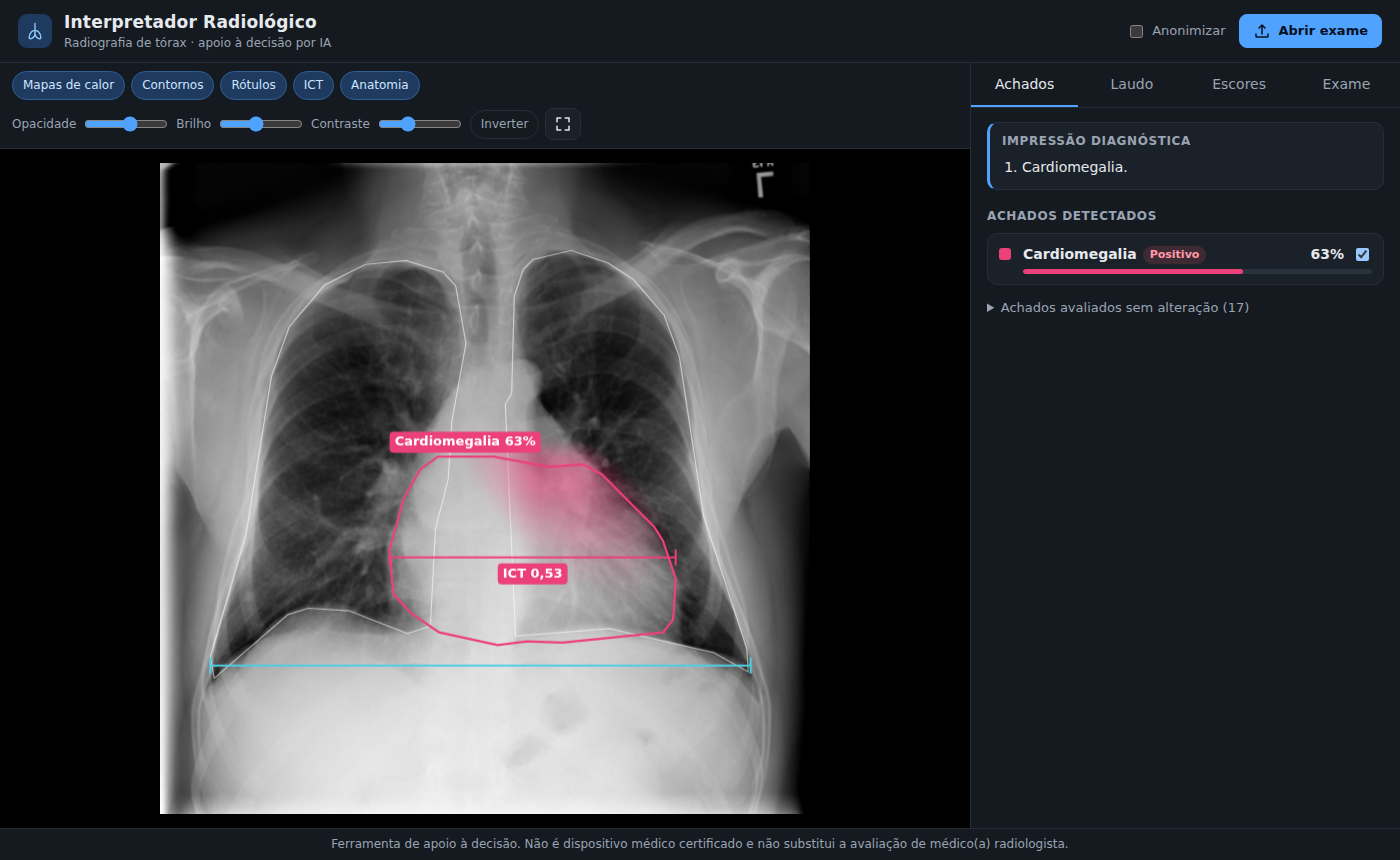
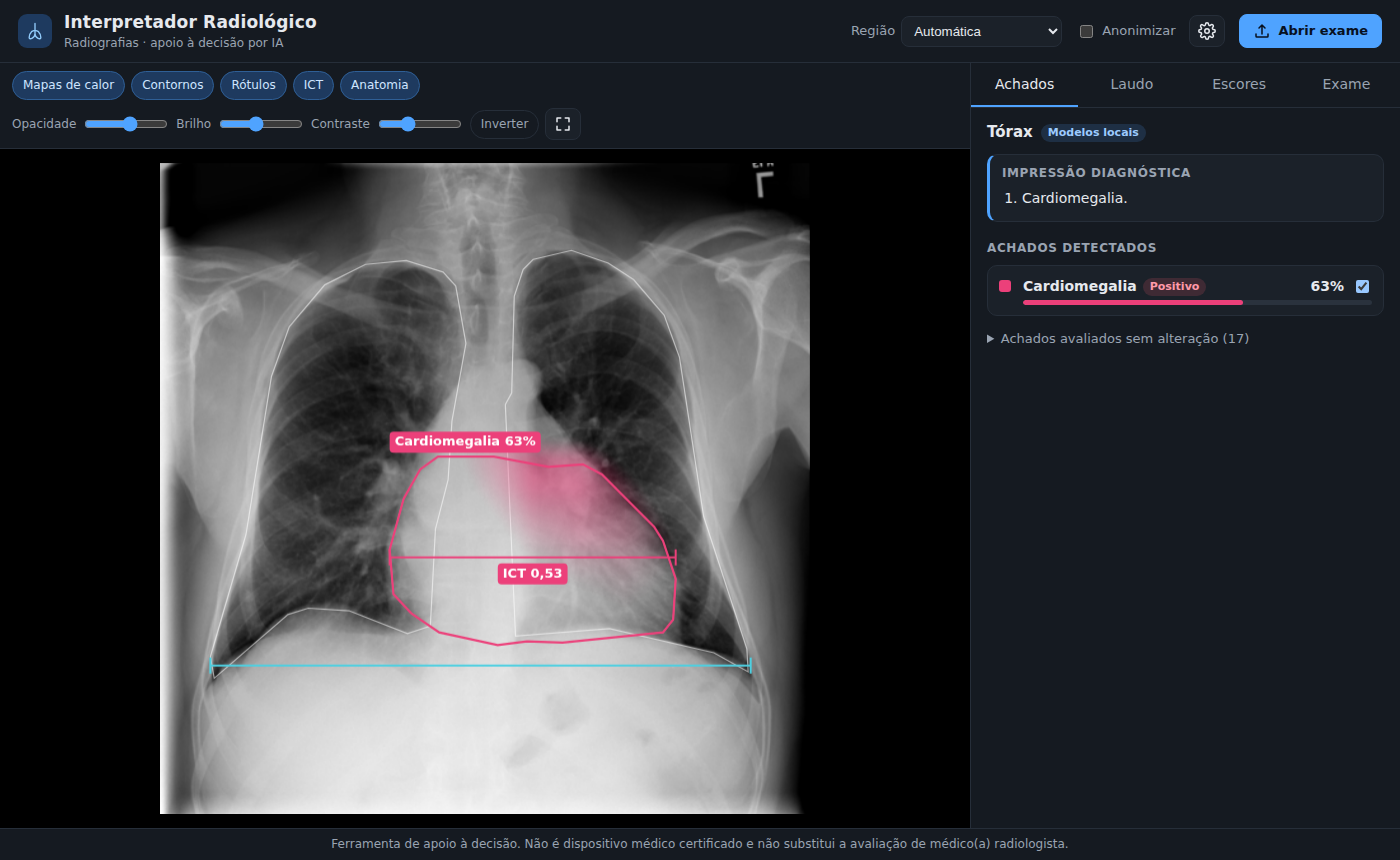
Atualiza capturas de tela da interface no README
Claude-Session: https://claude.ai/code/session_01YZ136QcfUJg2682P2d6iE2

diff --git a/README.md b/README.md
@@ -45,6 +45,8 @@ funciona sem internet para tórax. Configurações e registros ficam em
 3. Abra o exame. A região é identificada pelo DICOM; se faltar essa informação, escolha-a no
    seletor **Região** (ou deixe em "Automática" para a IA identificá-la).
 
+![Tela de configurações](docs/configuracoes.png)
+
 Privacidade: para a nuvem são enviados **apenas os pixels da imagem** e dados não identificáveis
 (região, incidência, lado, sexo e idade) — nunca nome, ID, datas ou nº de acesso. Atenção: textos
 gravados na própria imagem (ex.: nome do paciente "queimado" nos pixels) seguem junto com ela.
